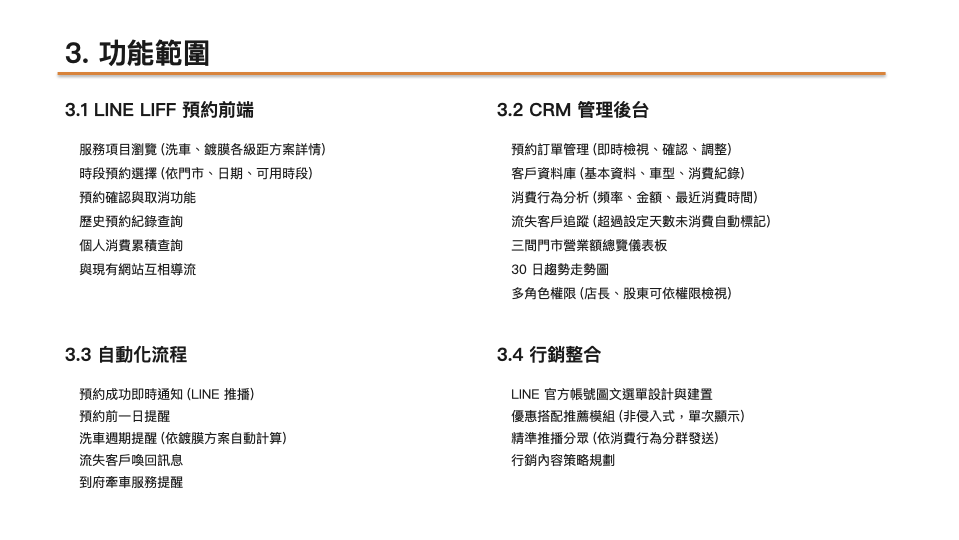
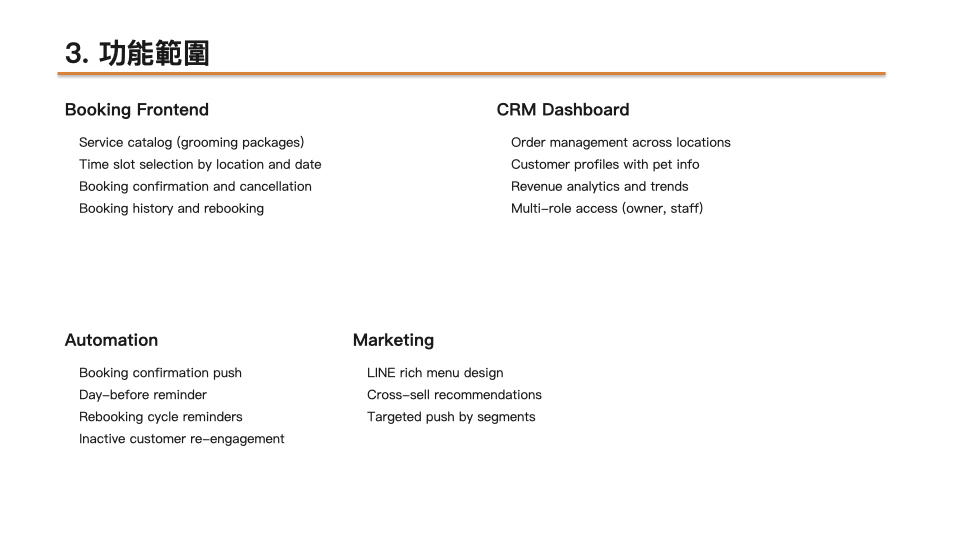
Replace screenshots with demo data (Pet Salon example)
Removed all real client proposal screenshots. Generated a demo PPTX
using fictional Pet Salon Booking System with fake pricing, then
re-exported slides via Keynote. No real business data is exposed.

Added scripts/generate-demo.py for reproducible demo generation.

diff --git a/scripts/generate-demo.py b/scripts/generate-demo.py
@@ -1,0 +1,162 @@
+#!/usr/bin/env python3
+"""Generate a demo proposal PPTX with fake data for README screenshots."""
+import json
+import sys
+import os
+
+sys.path.insert(0, os.path.join(os.path.dirname(__file__), '..', 'python'))
+from generate_pptx import ProposalGenerator
+
+demo_analysis = {
+    "title": "Demo: Pet Salon Booking System",
+    "subtitle": "LINE LIFF Booking + CRM Dashboard + Automation",
+    "background": "A growing pet grooming business with 3 locations needs a digital booking system. Currently relying on phone reservations and manual spreadsheets, the business faces scheduling conflicts and has no unified view of customer data across branches.",
+    "goals": [
+        "Enable customers to book grooming appointments directly in LINE",
+        "Unified CRM dashboard for all 3 locations",
+        "Automated reminders to boost rebooking rates",
+        "Build customer data assets for marketing decisions"
+    ],
+    "architecture": {
+        "flow": "LINE App > LIFF Booking > Cloud API > Database",
+        "tech_stack": [
+            {"name": "LINE LIFF", "description": "In-app booking interface, no separate app download required"},
+            {"name": "Cloud API", "description": "Serverless backend handling bookings and customer logic"},
+            {"name": "Database", "description": "Cloud database with real-time sync across locations"},
+            {"name": "Automation", "description": "Workflow engine for notifications, reminders, and marketing"},
+            {"name": "Push Notifications", "description": "Automated LINE messages for booking confirmations"},
+            {"name": "CRM Dashboard", "description": "Web-based management console for all locations"}
+        ]
+    },
+    "features": [
+        {
+            "category": "Booking Frontend",
+            "items": [
+                "Service catalog (grooming packages)",
+                "Time slot selection by location and date",
+                "Booking confirmation and cancellation",
+                "Booking history and rebooking"
+            ]
+        },
+        {
+            "category": "CRM Dashboard",
+            "items": [
+                "Order management across locations",
+                "Customer profiles with pet info",
+                "Revenue analytics and trends",
+                "Multi-role access (owner, staff)"
+            ]
+        },
+        {
+            "category": "Automation",
+            "items": [
+                "Booking confirmation push",
+                "Day-before reminder",
+                "Rebooking cycle reminders",
+                "Inactive customer re-engagement"
+            ]
+        },
+        {
+            "category": "Marketing",
+            "items": [
+                "LINE rich menu design",
+                "Cross-sell recommendations",
+                "Targeted push by segments"
+            ]
+        }
+    ],
+    "pricing": {
+        "plans": [
+            {
+                "name": "Plan A",
+                "label": "Plan A: Core Booking System",
+                "total": 80000,
+                "currency": "NT$",
+                "recommended": False,
+                "items": [
+                    {"name": "LIFF Frontend", "description": "Booking UI, service catalog, history", "price": 25000},
+                    {"name": "Database Design", "description": "Customer, booking, service, location tables", "price": 10000},
+                    {"name": "CRM Dashboard", "description": "Order management, basic reports", "price": 30000},
+                    {"name": "Automation", "description": "Booking notifications, reminders", "price": 10000},
+                    {"name": "Testing & Launch", "description": "QA, client review, deployment", "price": 5000}
+                ],
+                "summary": "LIFF booking, basic CRM, automation",
+                "fit": "Get the booking flow running first"
+            },
+            {
+                "name": "Plan B",
+                "label": "Plan B: Full System + Marketing",
+                "total": 120000,
+                "currency": "NT$",
+                "recommended": True,
+                "items": [
+                    {"name": "LIFF Frontend", "description": "Booking UI, service catalog, history", "price": 25000},
+                    {"name": "Database Design", "description": "Customer, booking, service, location tables", "price": 10000},
+                    {"name": "CRM Dashboard", "description": "Advanced analytics, multi-location dashboard", "price": 35000},
+                    {"name": "Automation", "description": "Full workflow: reminders, re-engagement, segments", "price": 20000},
+                    {"name": "Marketing Module", "description": "Rich menu, cross-sell, targeted push", "price": 25000},
+                    {"name": "Testing & Launch", "description": "QA, client review, deployment", "price": 5000}
+                ],
+                "summary": "Everything in Plan A + advanced analytics + marketing integration",
+                "fit": "Build system and marketing simultaneously"
+            }
+        ]
+    },
+    "maintenance": [
+        {"name": "Basic", "description": "Monitoring, bug fixes, hosting", "price": "NT$ 3,000/mo"},
+        {"name": "Advanced", "description": "Basic + 4 hours/month feature updates", "price": "NT$ 5,000/mo"}
+    ],
+    "timeline": [
+        {"phase": "Requirements", "content": "Service details, database schema, UI alignment", "duration": "3-5 days"},
+        {"phase": "Phase 1: Core", "content": "LIFF frontend + database + basic CRM", "duration": "2-3 weeks"},
+        {"phase": "Phase 2: Automation", "content": "Workflow engine + analytics + multi-location", "duration": "1-2 weeks"},
+        {"phase": "Phase 3: Marketing", "content": "Rich menu + recommendations + segmented push (Plan B only)", "duration": "1 week"},
+        {"phase": "Testing & Launch", "content": "Client review, fixes, go-live", "duration": "3-5 days"}
+    ],
+    "timeline_summary": "Plan A: ~4-5 weeks | Plan B: ~5-7 weeks (from requirements sign-off)",
+    "payment_terms": [
+        "40% upon contract signing",
+        "30% after Phase 1 acceptance",
+        "30% after full launch acceptance"
+    ],
+    "payment_note": "Payment schedule is negotiable",
+    "service_terms": [
+        "Quote valid for 30 days",
+        "Source code and database owned by client",
+        "First month post-launch: free warranty (bug fixes)",
+        "New features beyond scope quoted separately",
+        "Cloud service costs (hosting, etc.) paid by client",
+        "LINE Official Account fees paid by client"
+    ],
+    "why_us": [
+        {"title": "Proven Track Record", "description": "Successfully built similar LIFF + CRM systems for the food industry"},
+        {"title": "Domain Expertise", "description": "Deep understanding of service booking workflows"},
+        {"title": "AI Automation", "description": "Replace repetitive manual tasks with intelligent automation"},
+        {"title": "Long-term Partner", "description": "Ongoing maintenance and feature evolution as your business grows"}
+    ]
+}
+
+demo_config = {
+    "slide_size": {"width": 13.333, "height": 7.5},
+    "colors": {
+        "primary": "#E67E22",
+        "dark": "#1A1A1A",
+        "gray": "#555555",
+        "light_gray": "#999999",
+        "white": "#FFFFFF",
+        "bg_light": "#FAFAFA",
+        "bg_warm": "#FEF9F4"
+    },
+    "fonts": {"primary": "PingFang TC"},
+    "company": {
+        "name": "Your Name",
+        "title": "Consultant",
+        "website": "example.com"
+    },
+    "proposal": {"validity_days": 30}
+}
+
+output = os.path.join(os.path.dirname(__file__), '..', 'demo-proposal.pptx')
+gen = ProposalGenerator(demo_analysis, demo_config, output)
+gen.generate()
+print(f"Demo PPTX generated: {output}")
